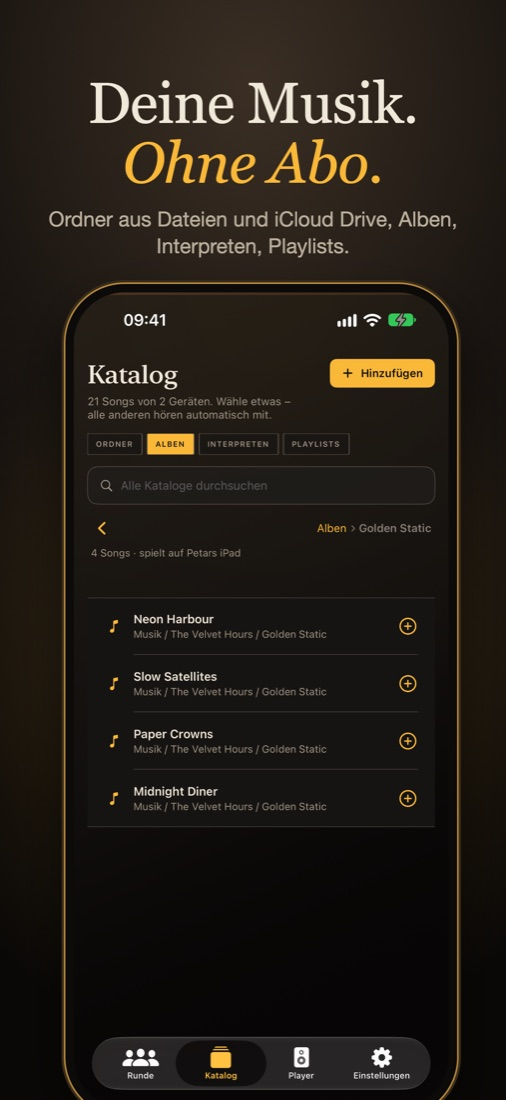
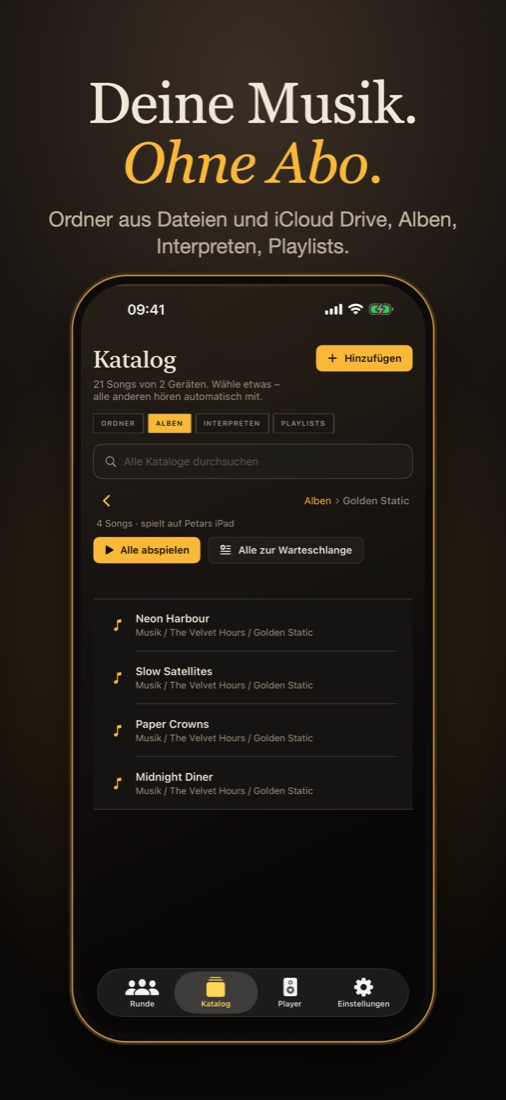
Update website from tutti-insieme-develop a714fa1

diff --git a/docs/erste-schritte.html b/docs/erste-schritte.html
@@ -30,7 +30,7 @@
   "@context": "https://schema.org",
   "@type": "HowTo",
   "name": "Musik mit Tutti Insieme synchron auf mehreren iPhones abspielen",
-  "description": "Tutti auf zwei oder mehr iPhones oder iPads im selben WLAN öffnen, einen Musikordner hinzufügen, einen Song gedrückt halten und „Sofort spielen“ wählen – alle Geräte spielen mit.",
+  "description": "Tutti auf zwei oder mehr iPhones oder iPads im selben WLAN öffnen, einen Musikordner hinzufügen und einen Song antippen – alle Geräte spielen mit.",
   "inLanguage": "de",
   "image": "https://petergerov.github.io/tutti-insieme/og-de.jpg",
   "totalTime": "PT5M",
@@ -79,14 +79,14 @@
     {
       "@type": "HowToStep",
       "name": "Einen Song abspielen",
-      "text": "Öffne ein Album (oder einen Ordner) und halte einen Song gedrückt, bis ein Menü erscheint. Tippe auf Sofort spielen. Tippe unten auf Player: Der Song läuft, und du siehst, wer mithört.",
+      "text": "Öffne ein Album (oder einen Ordner) und tippe auf einen Song: Läuft noch nichts, spielt er sofort. Oder tippe oben auf Alle abspielen. Tippe unten auf Player: Der Song läuft, und du siehst, wer mithört.",
       "url": "https://petergerov.github.io/tutti-insieme/erste-schritte.html#abspielen",
-      "image": "https://petergerov.github.io/tutti-insieme/first-steps/de-a-8-play-now.jpg"
+      "image": "https://petergerov.github.io/tutti-insieme/first-steps/de-a-8-tap.jpg"
     },
     {
       "@type": "HowToStep",
       "name": "Alle hören mit – und machen mit",
-      "text": "Schau aufs zweite Handy: Es spielt denselben Song im selben Moment. Dort musst du nichts tun. Jedes Handy kann pausieren, weiterspringen und Songs aussuchen – nicht nur das, das spielt. Im Katalog sieht das zweite Handy auch die Musik des ersten. Tippe neben einem Song auf +, um ihn in die Warteschlange zu legen. Scrolle im Player nach unten, um zu sehen, was als Nächstes kommt.",
+      "text": "Schau aufs zweite Handy: Es spielt denselben Song im selben Moment. Dort musst du nichts tun. Jedes Handy kann pausieren, weiterspringen und Songs aussuchen – nicht nur das, das spielt. Im Katalog sieht das zweite Handy auch die Musik des ersten. Läuft schon etwas, legt ein Tipp auf einen Song ihn in die Warteschlange; ein Häkchen zeigt es, ein weiterer Tipp nimmt ihn wieder heraus. Scrolle im Player nach unten, um zu sehen, was als Nächstes kommt.",
       "url": "https://petergerov.github.io/tutti-insieme/erste-schritte.html#zusammen",
       "image": "https://petergerov.github.io/tutti-insieme/first-steps/de-b-1-listening.jpg"
     },
@@ -225,14 +225,14 @@
         <span class="step-num">4</span>
         <h2>Einen Song abspielen</h2>
         <ul class="taps">
-          <li>Öffne ein Album (oder einen Ordner) und <b>halte einen Song gedrückt</b>, bis ein Menü erscheint.</li>
-          <li>Tippe auf <b>Sofort spielen</b>.</li>
+          <li>Öffne ein Album (oder einen Ordner) und <b>tippe auf einen Song</b>. Läuft noch nichts, spielt er sofort.</li>
+          <li>Oder tippe oben auf <b>Alle abspielen</b> für das ganze Album.</li>
           <li>Tippe unten auf <b>Player</b>: Der Song läuft, und du siehst, wer mithört.</li>
         </ul>
-        <p class="tip"><b>Warum gedrückt halten statt tippen?</b> Damit nichts aus Versehen losgeht – Musik für den ganzen Raum ist nur ein Menü entfernt. Hältst du ein Album oder einen Ordner gedrückt, spielt alles darin.</p>
+        <p class="tip"><b>Läuft schon etwas?</b> Dann bricht ein Tipp es nicht ab: Der Song kommt in die Warteschlange. Willst du ihn sofort hören, tippe in der Einblendung auf <b>Jetzt spielen</b>.</p>
       </div>
       <div class="guide-shots">
-        <figure><img src="first-steps/de-a-8-play-now.jpg" alt="Ein gedrückt gehaltener Song: das Menü mit Sofort spielen" width="540" height="1174" loading="lazy" /><figcaption>Gedrückt halten › Sofort spielen</figcaption></figure>
+        <figure><img src="first-steps/de-a-8-tap.jpg" alt="Ein Album: Der angetippte Song läuft, davor ein Lautsprecher" width="540" height="1174" loading="lazy" /><figcaption>Antippen spielt den Song</figcaption></figure>
         <figure><img src="first-steps/de-a-9-player.jpg" alt="Der Player: Der Song läuft, Live, es hört mit: Lukas’ iPhone" width="540" height="1174" loading="lazy" /><figcaption>Der Player</figcaption></figure>
       </div>
     </li>
@@ -244,14 +244,14 @@
         <p>Schau aufs zweite Handy: Es spielt denselben Song im selben Moment. Dort musst du nichts tun.</p>
         <ul class="taps">
           <li>Jedes Handy kann <b>pausieren</b>, <b>weiterspringen</b> und Songs aussuchen – nicht nur das, das spielt.</li>
-          <li>Im <b>Katalog</b> sieht das zweite Handy auch die Musik des ersten. Tippe neben einem Song auf <b>+</b>, um ihn in die Warteschlange zu legen.</li>
+          <li>Im <b>Katalog</b> sieht das zweite Handy auch die Musik des ersten. <b>Tippe auf einen Song</b>, um ihn in die Warteschlange zu legen: Ein Häkchen zeigt es. Noch ein Tipp nimmt ihn wieder heraus.</li>
           <li>Scrolle im <b>Player</b> nach unten, um zu sehen, was als Nächstes kommt.</li>
         </ul>
         <p class="tip"><b>Ein Handy klingt etwas zu früh oder zu spät?</b> Öffne auf diesem Handy Einstellungen › Ton zu früh / zu spät und verschiebe den Regler nach Gehör.</p>
       </div>
       <div class="guide-shots">
         <figure><img src="first-steps/de-b-1-listening.jpg" alt="Das zweite iPhone: Du hörst mit bei Annas iPhone" width="540" height="1174" loading="lazy" /><figcaption>Das zweite Handy spielt mit</figcaption></figure>
-        <figure><img src="first-steps/de-b-2-queued.jpg" alt="Ein Song vom zweiten iPhone in die Warteschlange gelegt" width="540" height="1174" loading="lazy" /><figcaption>+ legt einen Song in die Warteschlange</figcaption></figure>
+        <figure><img src="first-steps/de-b-2-queued.jpg" alt="Ein Song vom zweiten iPhone in die Warteschlange gelegt, mit Häkchen davor" width="540" height="1174" loading="lazy" /><figcaption>Ein Tipp legt einen Song in die Warteschlange</figcaption></figure>
         <figure><img src="first-steps/de-a-10-queue.jpg" alt="Die gemeinsame Warteschlange im Player: als Nächstes" width="540" height="1174" loading="lazy" /><figcaption>Die gemeinsame Warteschlange</figcaption></figure>
       </div>
     </li>

diff --git a/docs/first-steps.html b/docs/first-steps.html
@@ -30,7 +30,7 @@
   "@context": "https://schema.org",
   "@type": "HowTo",
   "name": "How to play music in sync on several iPhones with Tutti Insieme",
-  "description": "Open Tutti on two or more iPhones or iPads on the same Wi-Fi, add a folder of music, hold a song and choose Play Now — every device plays along.",
+  "description": "Open Tutti on two or more iPhones or iPads on the same Wi-Fi, add a folder of music and tap a song — every device plays along.",
   "inLanguage": "en",
   "image": "https://petergerov.github.io/tutti-insieme/og-en.jpg",
   "totalTime": "PT5M",
@@ -79,14 +79,14 @@
     {
       "@type": "HowToStep",
       "name": "Play a song",
-      "text": "Open an album (or a folder) and touch and hold a song until a menu appears. Tap Play Now. Tap Player at the bottom: the song plays, and you see who is listening.",
+      "text": "Open an album (or a folder) and tap a song: with nothing playing yet, it plays right away. Or tap Play All at the top. Tap Player at the bottom: the song plays, and you see who is listening.",
       "url": "https://petergerov.github.io/tutti-insieme/first-steps.html#play",
-      "image": "https://petergerov.github.io/tutti-insieme/first-steps/en-a-8-play-now.jpg"
+      "image": "https://petergerov.github.io/tutti-insieme/first-steps/en-a-8-tap.jpg"
     },
     {
       "@type": "HowToStep",
       "name": "Everyone listens — and joins in",
-      "text": "Look at the second phone: it plays the same song at the same moment. You don’t have to do anything there. Every phone can pause, skip and pick songs — not only the one that plays. In Catalogue, the second phone sees the first phone’s music too. Tap + next to a song to add it to the queue. In the Player, scroll down to see what comes next.",
+      "text": "Look at the second phone: it plays the same song at the same moment. You don’t have to do anything there. Every phone can pause, skip and pick songs — not only the one that plays. In Catalogue, the second phone sees the first phone’s music too. While something plays, tap a song to add it to the queue; a tick marks it, and another tap takes it out. In the Player, scroll down to see what comes next.",
       "url": "https://petergerov.github.io/tutti-insieme/first-steps.html#together",
       "image": "https://petergerov.github.io/tutti-insieme/first-steps/en-b-1-listening.jpg"
     },
@@ -225,14 +225,14 @@
         <span class="step-num">4</span>
         <h2>Play a song</h2>
         <ul class="taps">
-          <li>Open an album (or a folder) and <b>touch and hold</b> a song until a menu appears.</li>
-          <li>Tap <b>Play Now</b>.</li>
+          <li>Open an album (or a folder) and <b>tap a song</b>. With nothing playing yet, it plays right away.</li>
+          <li>Or tap <b>Play All</b> at the top for the whole album.</li>
           <li>Tap <b>Player</b> at the bottom: the song plays, and you see who is listening.</li>
         </ul>
-        <p class="tip"><b>Why hold instead of tap?</b> So nothing starts by accident — music for the whole room is only one menu away. Holding an album or a folder plays all of it.</p>
+        <p class="tip"><b>Something is playing already?</b> Then a tap doesn’t cut it off: the song joins the queue. To hear it at once, tap <b>Play Now</b> in the note that appears.</p>
       </div>
       <div class="guide-shots">
-        <figure><img src="first-steps/en-a-8-play-now.jpg" alt="A song held down: the menu with Play Now" width="540" height="1174" loading="lazy" /><figcaption>Hold › Play Now</figcaption></figure>
+        <figure><img src="first-steps/en-a-8-tap.jpg" alt="An album: the tapped song plays, a speaker in front of it" width="540" height="1174" loading="lazy" /><figcaption>Tap a song to play it</figcaption></figure>
         <figure><img src="first-steps/en-a-9-player.jpg" alt="The player: the song is playing, Live, listening: Luca’s iPhone" width="540" height="1174" loading="lazy" /><figcaption>The player</figcaption></figure>
       </div>
     </li>
@@ -244,14 +244,14 @@
         <p>Look at the second phone: it plays the same song at the same moment. You don’t have to do anything there.</p>
         <ul class="taps">
           <li>Every phone can <b>pause</b>, <b>skip</b> and pick songs — not only the one that plays.</li>
-          <li>In <b>Catalogue</b>, the second phone sees the first phone’s music too. Tap <b>+</b> next to a song to add it to the queue.</li>
+          <li>In <b>Catalogue</b>, the second phone sees the first phone’s music too. <b>Tap a song</b> to add it to the queue: a tick marks it. Tap it again to take it out.</li>
           <li>In the <b>Player</b>, scroll down to see what comes next.</li>
         </ul>
         <p class="tip"><b>One phone sounds a little early or late?</b> Open Settings › Sound Early / Late on that phone and move the slider by ear.</p>
       </div>
       <div class="guide-shots">
         <figure><img src="first-steps/en-b-1-listening.jpg" alt="The second iPhone: You are listening along with Anna’s iPhone" width="540" height="1174" loading="lazy" /><figcaption>The second phone plays along</figcaption></figure>
-        <figure><img src="first-steps/en-b-2-queued.jpg" alt="A song added to the queue from the second iPhone" width="540" height="1174" loading="lazy" /><figcaption>+ adds a song to the queue</figcaption></figure>
+        <figure><img src="first-steps/en-b-2-queued.jpg" alt="A song added to the queue from the second iPhone, with a tick in front of it" width="540" height="1174" loading="lazy" /><figcaption>A tap adds a song to the queue</figcaption></figure>
         <figure><img src="first-steps/en-a-10-queue.jpg" alt="The shared queue in the player: up next" width="540" height="1174" loading="lazy" /><figcaption>The shared queue</figcaption></figure>
       </div>
     </li>
